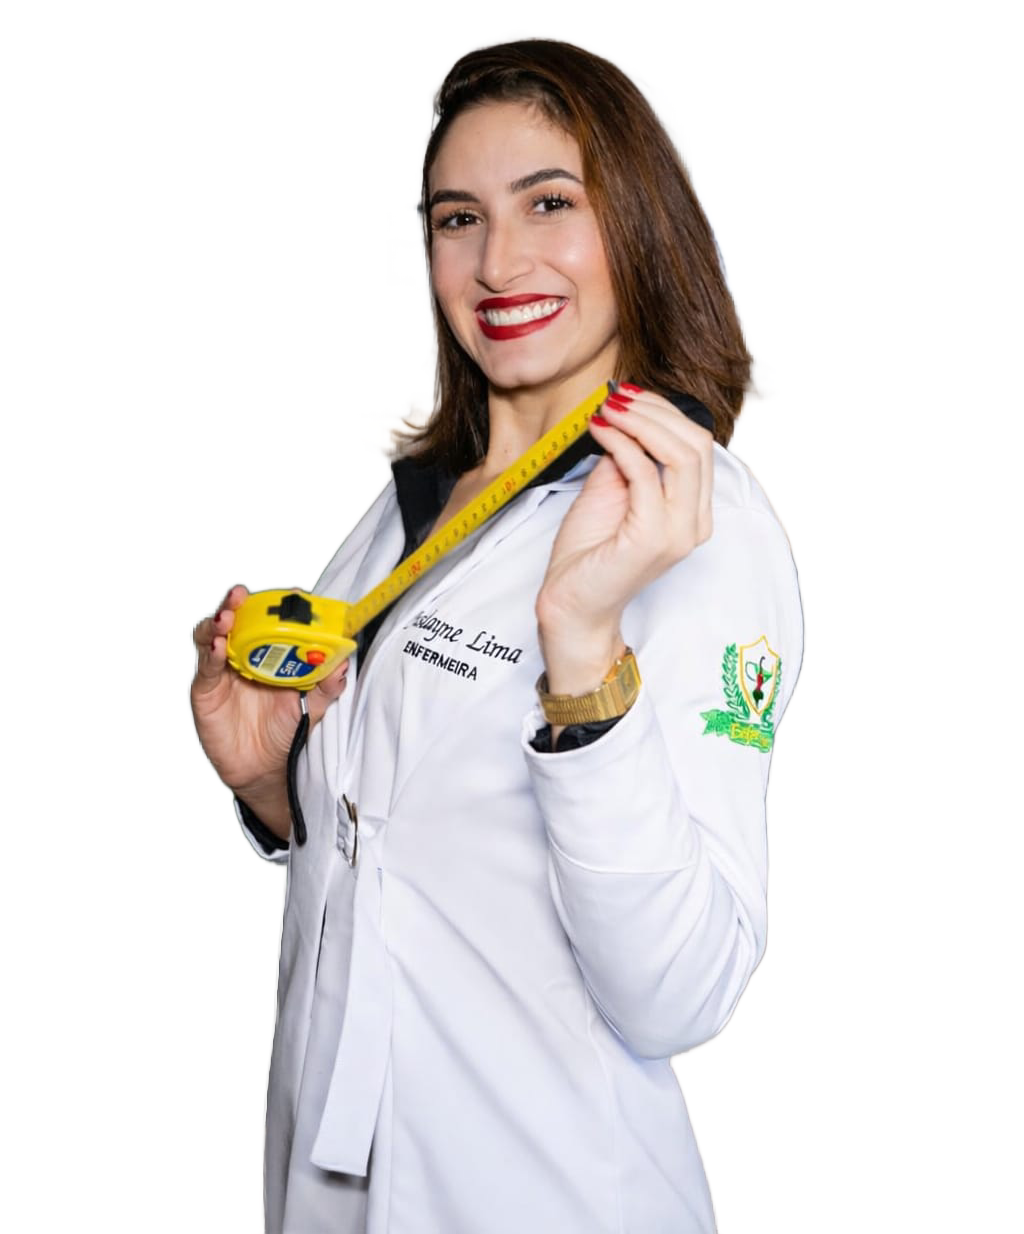
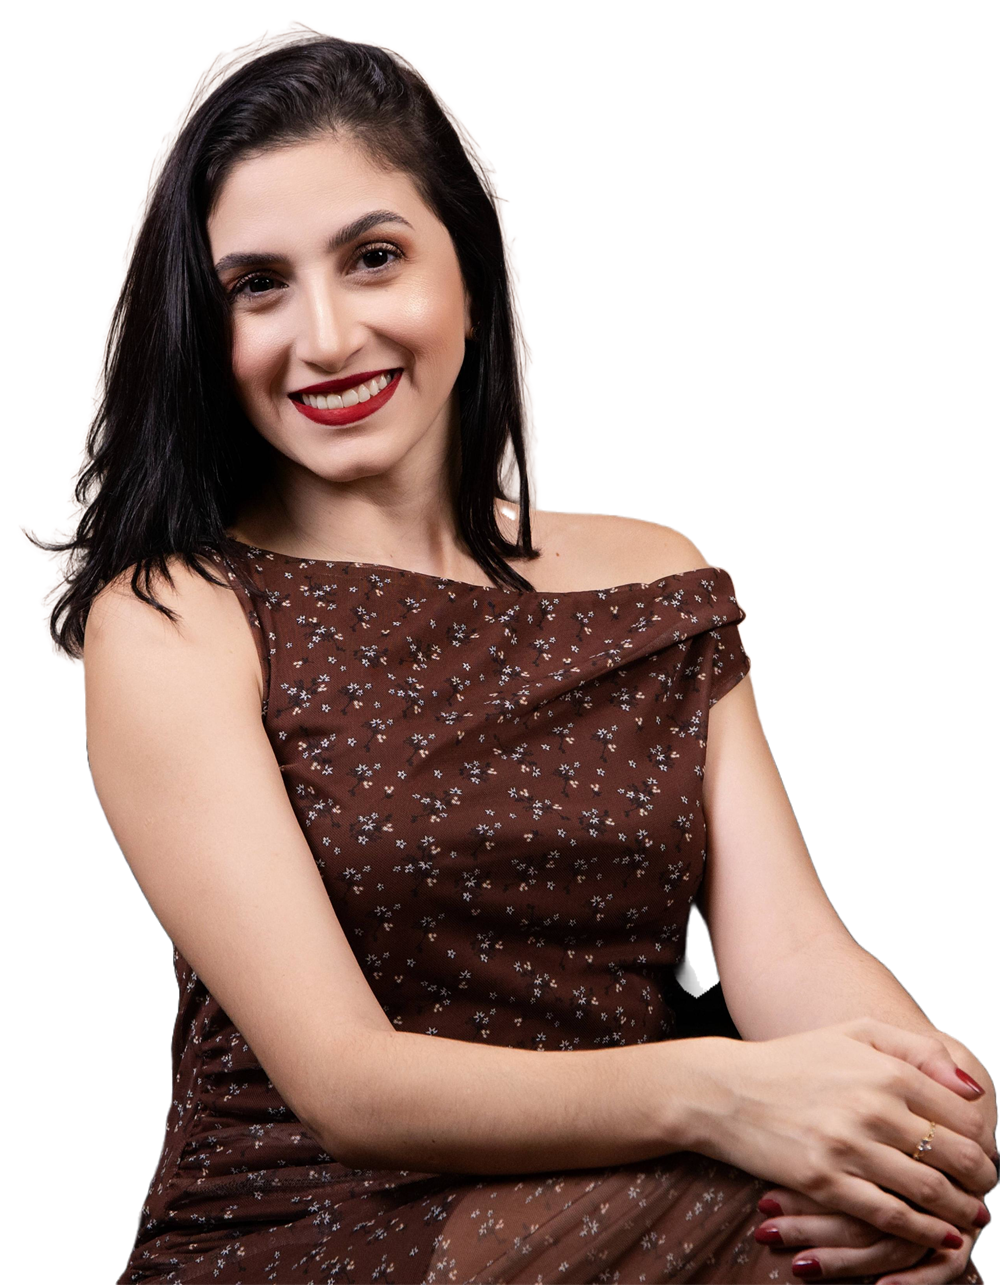
feat(ui): atualizar foto da especialista para nova imagem sem fundo e otimizada

diff --git a/index.html b/index.html
@@ -490,9 +490,9 @@
         </div>
 
         <div class="lg:col-span-2 reveal flex justify-center items-end self-end relative">
-          <div class="relative">
-            <img src="assets/images/foto-lane.png" alt="Juslayne Lima — Enfermeira do Trabalho e Consultora em Ergonomia" loading="lazy"
-              class="w-full max-w-md lg:max-w-none lg:w-[480px] object-cover object-top select-none"
+          <div class="relative" id="specialist-card">
+            <img src="assets/images/Firefly_RemoveBackground.png" alt="Juslayne Lima — Enfermeira do Trabalho e Consultora em Ergonomia" loading="lazy"
+              class="specialist-photo w-full max-w-md lg:max-w-none lg:w-[480px] object-cover object-top select-none transition-transform duration-300 ease-out"
               draggable="false"
               style="filter: drop-shadow(0 25px 50px rgba(0,0,0,0.2)) drop-shadow(0 8px 20px rgba(27,94,59,0.1));">
             <!-- Floating info badge -->
